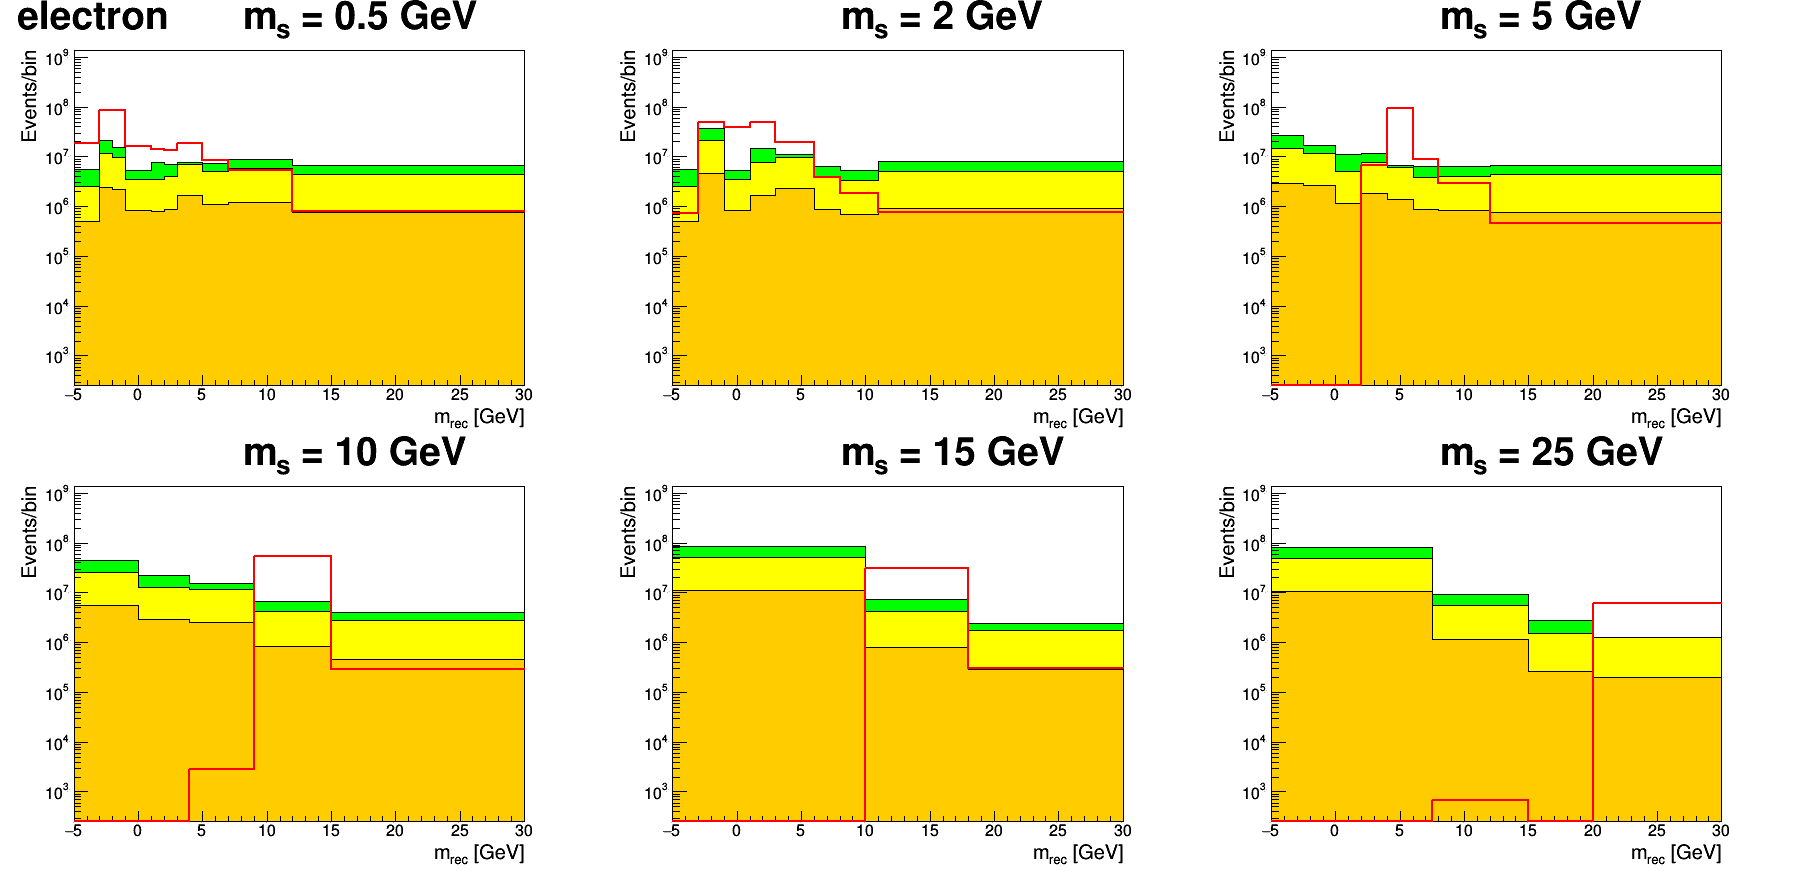
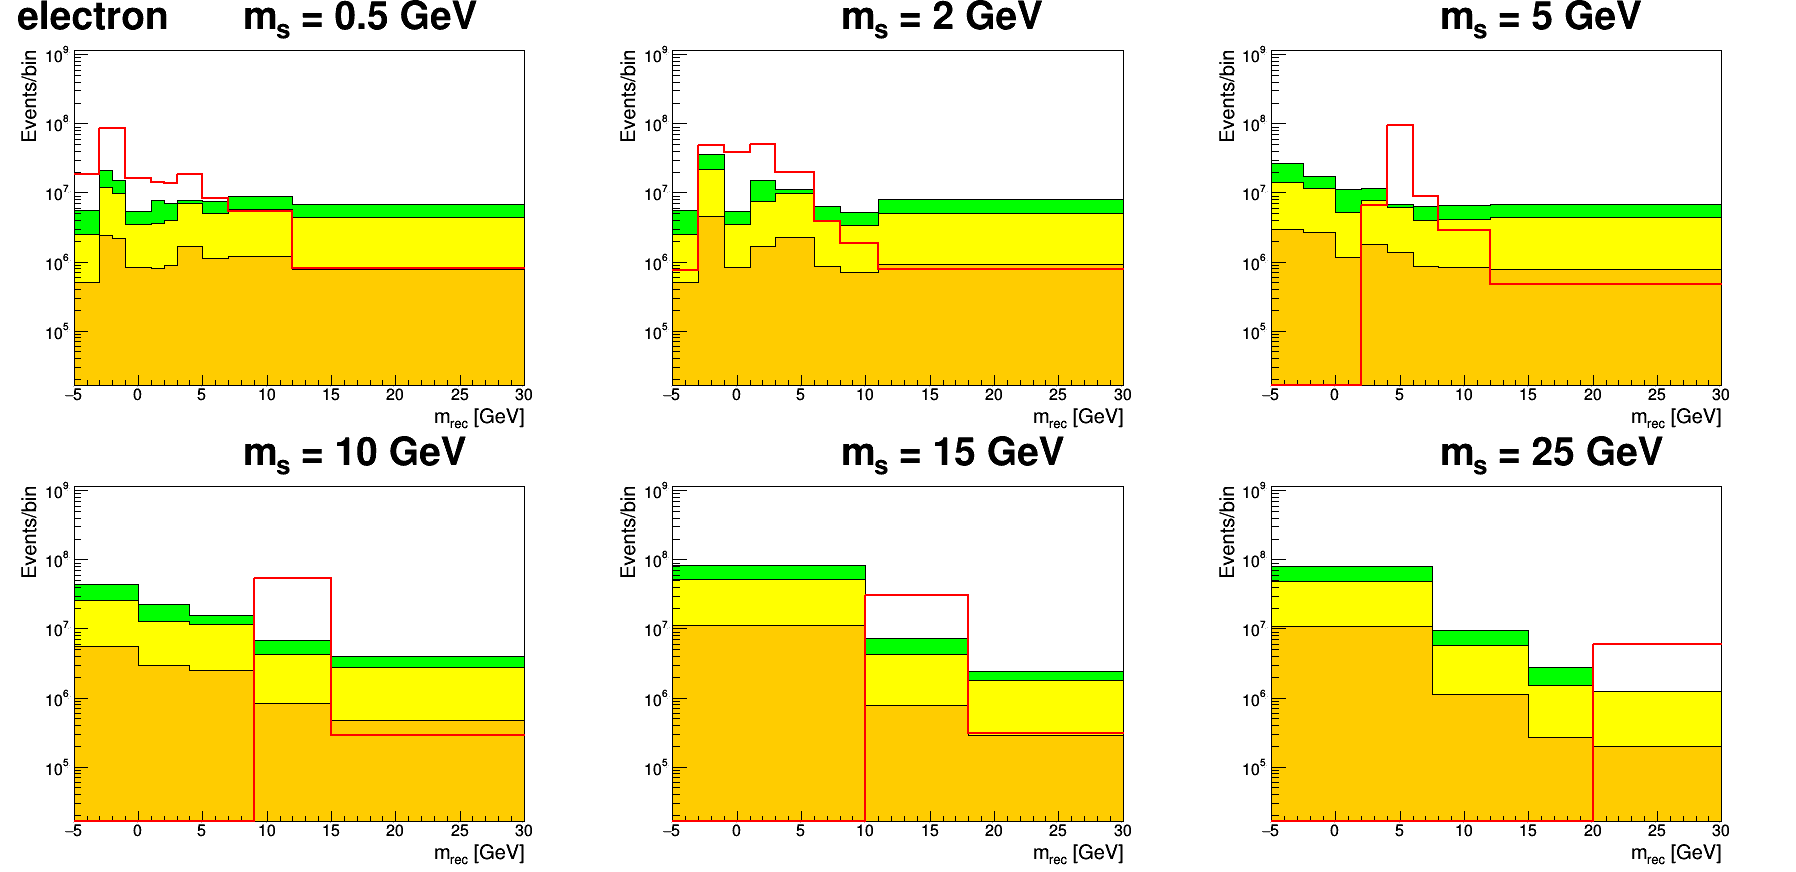
poster updats

diff --git a/scripts/cutflow_in_dev.py b/scripts/cutflow_in_dev.py
@@ -161,7 +161,7 @@ ctf_plot_param['mrec'] = {
 'xmin':-5, 
 'xmax':30,
 'nbins':35, 
-'ymin':1000, 
+'ymin':50000, 
 'ymax':100,
 'xvar':'m_rec',
 'xunit':'GeV',
